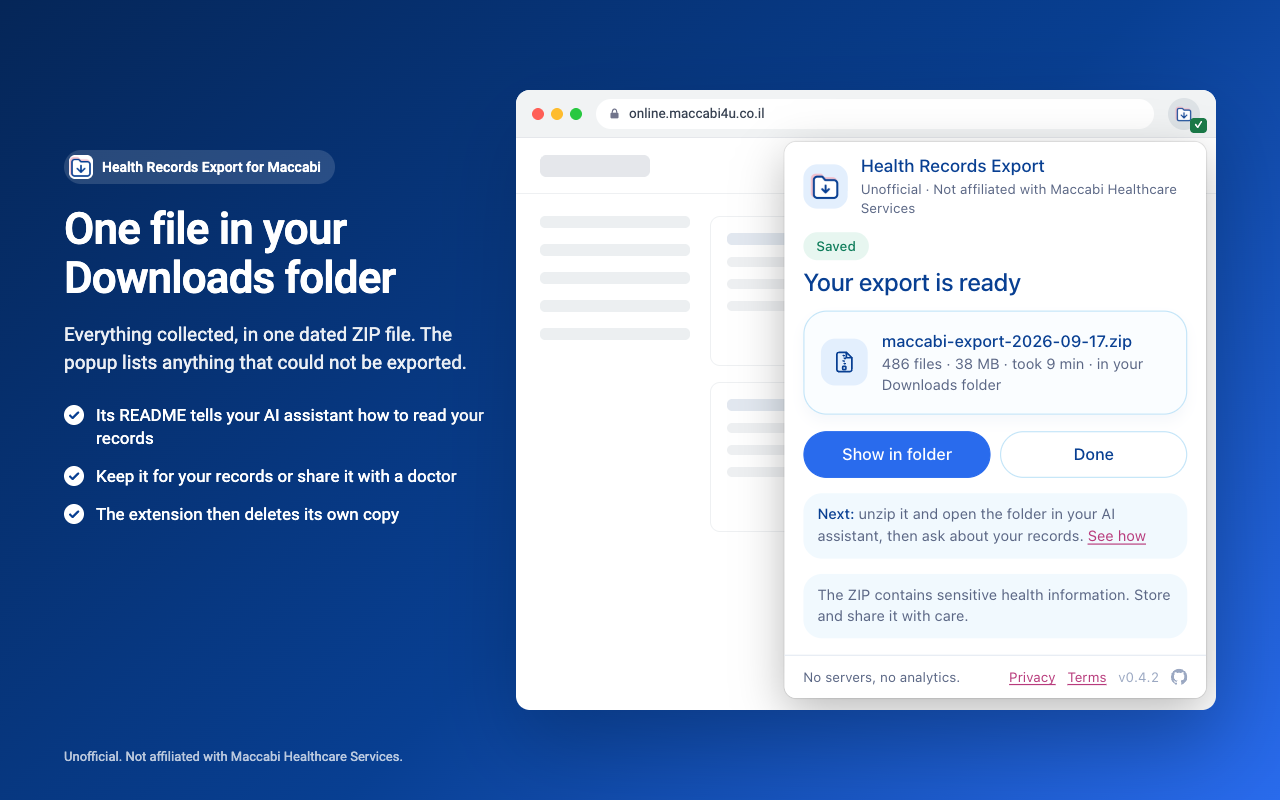
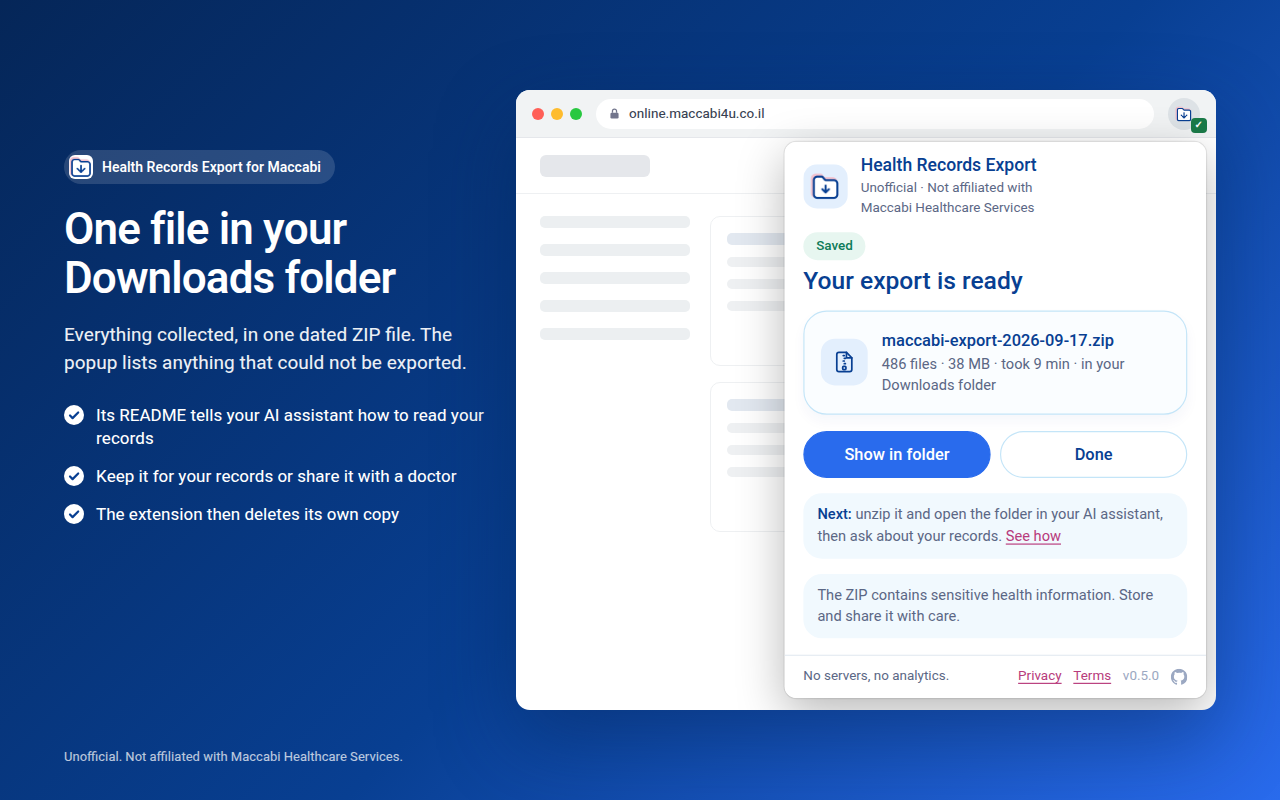
Call it the Maccabi Online tab, and balance the header's tagline
"The Maccabi Healthcare Services tab" is a website's tab, and at that length it
wrapped the paused heading to two lines and pushed Stop onto a row of its own.
The organisation keeps its full name wherever the organisation is meant. The
tagline under the header wraps in two even lines instead of leaving "Services"
alone on the second. Store images re-rendered.

Claude-Session: https://claude.ai/code/session_012ZpQEL8moHTYht3hhJxQhs

diff --git a/src/extension/popup/popup.ts b/src/extension/popup/popup.ts
@@ -152,7 +152,7 @@ function progressBar(percent: number, active: boolean): { bar: HTMLElement; fill
 function hintFor(run: RunState): string {
   if (run.status === 'saving') return 'Building the ZIP. It will be in your Downloads folder in a moment.';
   if (PLAN[run.next] === 'waitMedicalFile') return 'Maccabi Healthcare Services usually prepares the file within a few minutes (at most 15). You can close this popup.';
-  return 'Keep the Maccabi Healthcare Services tab open and in front until the ZIP is saved. You can close this popup.';
+  return 'Keep the Maccabi Online tab open and in front until the ZIP is saved. You can close this popup.';
 }
 
 // ---- views -------------------------------------------------------------
@@ -165,7 +165,7 @@ function noticeView(): Child[] {
     h('ul', { class: 'points' },
       h('li', {}, 'It reads your records from Maccabi Online while you are logged in, and saves them as one ZIP file on this computer. Nothing is sent anywhere else.'),
       h('li', {}, 'Use it only with your own account, or one whose records you are legally entitled to access.'),
-      h('li', {}, 'While it works, your Maccabi Healthcare Services tab moves to the medical-file page and back, and it keeps your session from timing out until the export finishes.'),
+      h('li', {}, 'While it works, your Maccabi Online tab moves to the medical-file page and back, and it keeps your session from timing out until the export finishes.'),
       h('li', {}, 'The ZIP contains sensitive health information. Store and share it with care.')),
     note('warn', h('strong', {}, 'Each export orders a fresh copy of your full medical file.'),
       ' It asks for your whole history, a wider range than the site’s own form offers. Maccabi Healthcare Services texts you about it, and the' +
@@ -202,7 +202,7 @@ function includedDetails(): HTMLElement {
         h('li', {}, 'Only the logged-in member’s records.'),
         h('li', {}, 'No imaging studies (DICOM).'),
         h('li', {}, 'Visits from the last 12 months, as on the site. The purchase report PDF covers 2 years; the purchase table, everything.'),
-        h('li', {}, 'While it works, your Maccabi Healthcare Services tab moves to the medical-file page and back.'))));
+        h('li', {}, 'While it works, your Maccabi Online tab moves to the medical-file page and back.'))));
 }
 
 function idleView(st: StateReply): Child[] {
@@ -259,13 +259,13 @@ function pausedView(run: RunState, st: StateReply): Child[] {
   const stage = STAGES[stageStates(run.next).indexOf('current')]?.label;
   let primary: HTMLElement;
   if (!hidden && st.tab.onMaccabi) primary = actionButton('Resume', { type: 'resume' }, 'primary', 'Reconnecting…');
-  else primary = actionButton('Go to the Maccabi Healthcare Services tab', { type: 'focusTab' }, 'primary');
+  else primary = actionButton('Go to the Maccabi Online tab', { type: 'focusTab' }, 'primary');
   return [
     status('Paused · ' + run.percent + '%', 'warn'),
-    h('h2', {}, hidden ? 'Waiting for the Maccabi Healthcare Services tab' : 'Export paused'),
+    h('h2', {}, hidden ? 'Waiting for the Maccabi Online tab' : 'Export paused'),
     stage && h('p', { class: 'detail' }, 'During ' + stage),
     progressBar(run.percent, false).bar,
-    note('warn', run.message || (hidden ? 'Bring the Maccabi Healthcare Services tab back to the front to continue.' : 'The export is paused.')),
+    note('warn', run.message || (hidden ? 'Bring the Maccabi Online tab back to the front to continue.' : 'The export is paused.')),
     ui.confirm === 'cancel' ? cancelConfirm() : actions(primary, cancelButton()),
   ];
 }
@@ -325,7 +325,7 @@ function errorView(run: RunState, st: StateReply): Child[] {
   let retry: HTMLElement;
   if (atSave) retry = actionButton('Save again', { type: 'retrySave' }, 'primary', 'Saving…');
   else if (st.tab.onMaccabi) retry = actionButton('Try again', { type: 'resume' }, 'primary', 'Reconnecting…');
-  else retry = actionButton('Go to the Maccabi Healthcare Services tab', { type: 'focusTab' }, 'primary');
+  else retry = actionButton('Go to the Maccabi Online tab', { type: 'focusTab' }, 'primary');
   return [
     status(atSave ? 'Not saved' : 'Stopped', 'err'),
     h('h2', {}, atSave ? 'The ZIP was not saved' : 'Export stopped'),
@@ -333,7 +333,7 @@ function errorView(run: RunState, st: StateReply): Child[] {
       h('div', {}, run.message || 'The export failed.'),
       !atSave && h('div', { class: 'small' }, st.tab.onMaccabi
         ? 'Files collected so far are kept. Try again continues from where it stopped.'
-        : 'Files collected so far are kept. To try again, open this popup on the logged-in Maccabi Healthcare Services tab.')),
+        : 'Files collected so far are kept. To try again, open this popup on the logged-in Maccabi Online tab.')),
     ui.confirm === 'discard'
       ? confirmPanel('Delete the files collected so far? You will need to start a new export.', 'Delete files', { type: 'dismiss' }, 'Deleting…', 'Keep them')
       : actions(retry, button('Discard collected files', () => askConfirm('discard'))),
@@ -386,7 +386,7 @@ const ANNOUNCEMENTS: Record<string, string> = {
   running: 'Export running',
   saving: 'Saving the ZIP',
   paused_session: 'Export paused',
-  paused_hidden: 'Export waiting for the Maccabi Healthcare Services tab',
+  paused_hidden: 'Export waiting for the Maccabi Online tab',
   done: 'Export saved',
   error: 'Export failed',
   stopping: 'Stopping the export',

diff --git a/src/extension/background/tab.ts b/src/extension/background/tab.ts
@@ -16,15 +16,15 @@ export interface PageSnapshot {
 async function inTab<A extends unknown[], R>(tabId: number, func: (...args: A) => R | Promise<R>, args: A, timeoutMs = SCRIPT_TIMEOUT_MS): Promise<R> {
   let timer: ReturnType<typeof setTimeout> | undefined;
   const timeout = new Promise<never>((_, reject) => {
-    timer = setTimeout(() => reject(new SessionEndedError('the Maccabi Healthcare Services tab did not respond for ' + timeoutMs / 1000 + ' s')), timeoutMs);
+    timer = setTimeout(() => reject(new SessionEndedError('the Maccabi Online tab did not respond for ' + timeoutMs / 1000 + ' s')), timeoutMs);
   });
   try {
     const run = chrome.scripting.executeScript({ target: { tabId }, world: 'MAIN', func, args }).then((res) => {
-      if (!res || !res.length) throw new SessionEndedError('could not run in the Maccabi Healthcare Services tab');
+      if (!res || !res.length) throw new SessionEndedError('could not run in the Maccabi Online tab');
       return res[0].result as R;
     }, (e: unknown) => {
       // No tab, a tab on another site, or an error page.
-      throw new SessionEndedError('the Maccabi Healthcare Services tab is not available (' + (e instanceof Error ? e.message : String(e)) + ')');
+      throw new SessionEndedError('the Maccabi Online tab is not available (' + (e instanceof Error ? e.message : String(e)) + ')');
     });
     return await Promise.race([run, timeout]);
   } finally {
@@ -205,7 +205,7 @@ export async function isVisible(tabId: number): Promise<boolean> {
   try {
     tab = await chrome.tabs.get(tabId);
   } catch {
-    throw new SessionEndedError('the Maccabi Healthcare Services tab was closed');
+    throw new SessionEndedError('the Maccabi Online tab was closed');
   }
   if (!tab.active) return false;
   const win = await chrome.windows.get(tab.windowId);
@@ -233,7 +233,7 @@ export async function navigate(tabId: number, url: string, expectPath: RegExp): 
     chrome.tabs.update(tabId, { url }).catch((e) => {
       clearTimeout(timer);
       chrome.tabs.onUpdated.removeListener(listener);
-      reject(new SessionEndedError('the Maccabi Healthcare Services tab was closed (' + e.message + ')'));
+      reject(new SessionEndedError('the Maccabi Online tab was closed (' + e.message + ')'));
     });
   });
   const s = await snapshot(tabId);

diff --git a/src/extension/background/runner.ts b/src/extension/background/runner.ts
@@ -288,7 +288,7 @@ async function reconnect(): Promise<boolean> {
 
 async function waitVisible(): Promise<void> {
   if (!state || (await isVisible(state.tabId))) return;
-  await pause('paused_hidden', 'Bring the Maccabi Healthcare Services tab back to the front to continue. Chrome pauses hidden tabs, which can end your session.');
+  await pause('paused_hidden', 'Bring the Maccabi Online tab back to the front to continue. Chrome pauses hidden tabs, which can end your session.');
   while (state && !(await isVisible(state.tabId))) {
     if (cancelRequested) throw new CancelledError();
     await new Promise((r) => setTimeout(r, 1000));

diff --git a/test/popup.test.ts b/test/popup.test.ts
@@ -118,7 +118,7 @@ describe('popup', () => {
   it('offers to switch tabs when a paused export is opened elsewhere', async () => {
     const paused = running({ status: 'paused_session', message: 'Your Maccabi Healthcare Services session ended.' });
     await openPopup({ run: paused, tab: { onMaccabi: false, loggedIn: false } });
-    buttonNamed('Go to the Maccabi Healthcare Services tab').click();
+    buttonNamed('Go to the Maccabi Online tab').click();
     await flush();
     expect(sent.map((m) => m.type)).toContain('focusTab');
   });

diff --git a/store/src/stage.ts b/store/src/stage.ts
@@ -38,7 +38,7 @@ const SHOTS: Record<string, Shot> = {
   },
   progress: {
     title: 'It works through your records on its own',
-    text: 'Progress shows on the toolbar icon. You can close the popup; keep the Maccabi Healthcare Services tab open and in front.',
+    text: 'Progress shows on the toolbar icon. You can close the popup; keep the Maccabi Online tab open and in front.',
     points: [
       'Usually done in 5 to 20 minutes',
       'Read-only, except for ordering your medical file',

diff --git a/src/extension/popup/popup.css b/src/extension/popup/popup.css
@@ -89,6 +89,8 @@ h1 {
   margin: 1px 0 0;
   color: var(--muted);
   font-size: 11.5px;
+  /* Two even lines rather than a lone "Services" on the second. */
+  text-wrap: balance;
 }
 main {
   padding: 3px 16px 14px;

diff --git a/README.md b/README.md
@@ -100,7 +100,7 @@ Then load the `dist/` folder the same way.
   for your whole history, which is wider than the range the site's form offers. Maccabi Healthcare Services sends an SMS, and the new file
   replaces the previous one on the site. A copy ordered earlier the same day over the same range is used as it is.
   This is the only change the extension makes to your account, and it happens even if the export later fails.
-- **Keep the Maccabi Healthcare Services tab in front.** Chrome pauses hidden tabs, which can end your session. If you switch away, the
+- **Keep the Maccabi Online tab in front.** Chrome pauses hidden tabs, which can end your session. If you switch away, the
   export waits until you come back.
 - **Your session is kept awake.** Maccabi Healthcare Services logs you out after six minutes without a click or a keypress on the page, and
   an export asks nothing of you for far longer than that, so while it runs the extension signals activity in that tab
@@ -111,8 +111,8 @@ Then load the `dist/` folder the same way.
 | The popup says | What to do |
 |---|---|
 | **Export paused** | Your session ended. Log in to Maccabi Online again, click the icon on that tab and press **Resume**. (The extension first tries to reconnect by itself.) Also shown after Chrome restarts mid-export. |
-| **Waiting for the Maccabi Healthcare Services tab** | Bring the tab back to the front. The export continues on its own. |
-| **Export stopped** | Press **Try again** on the Maccabi Healthcare Services tab. It continues from the step that failed. |
+| **Waiting for the Maccabi Online tab** | Bring the tab back to the front. The export continues on its own. |
+| **Export stopped** | Press **Try again** on the Maccabi Online tab. It continues from the step that failed. |
 | **The ZIP was not saved** | Press **Save again**. |
 
 Resume refuses to continue if a different member is logged in. **Stop** ends the export and deletes the files collected
@@ -272,7 +272,7 @@ Read the full [Privacy Policy](docs/privacy.md) and [Terms of Use](docs/terms.md
 | Permission | Used to |
 |---|---|
 | `online.maccabi4u.co.il` | Read your records from the site you're logged in to. No other sites. |
-| `scripting` | Read the login session from the Maccabi Healthcare Services tab, and send the requests the site accepts only from its own pages |
+| `scripting` | Read the login session from the Maccabi Online tab, and send the requests the site accepts only from its own pages |
 | `downloads` | Save the ZIP |
 | `storage`, `unlimitedStorage` | Keep export progress, and collected files until the ZIP is saved (PDFs can be large) |
 | `offscreen` | Build the ZIP, and parse two HTML tables the site returns |
@@ -302,7 +302,7 @@ Load `dist-dev/` at `chrome://extensions` the same way as `dist/`. It shows up a
 flowchart LR
   popup[Popup] -- messages --> sw[Service worker]
   sw -- "/sonline/ REST API and PDFs" --> site[(Maccabi Online)]
-  sw -- chrome.scripting --> tab[Maccabi Healthcare Services tab]
+  sw -- chrome.scripting --> tab[Maccabi Online tab]
   tab -- "/online/ legacy pages, medical file order" --> site
   sw -- staged files --> idb[(IndexedDB)]
   sw -- "parse HTML, build ZIP" --> off[Offscreen document]
@@ -321,12 +321,12 @@ steps that need the old site share it. The run returns to `/sonline/` before wai
 renews the session token only there, and the wait is the longest part of the run.
 
 REST API requests (`/sonline/`) go from the service worker, with the session token read from the tab. Legacy requests
-(`/online/`) and the medical file order go from inside the Maccabi Healthcare Services tab, where the site requires them to originate.
+(`/online/`) and the medical file order go from inside the Maccabi Online tab, where the site requires them to originate.
 
 | Path | Contents |
 |---|---|
 | `src/core/` | The collection logic, one file per part of the site in `sections/`. Uses no extension APIs: it reaches the site through a `Transport`, writes through a `Sink` and parses HTML through an `HtmlParser` (see `types.ts`). |
-| `src/extension/background/` | The service worker: the run loop with pause and resume (`runner.ts`), the Maccabi Healthcare Services tab (`tab.ts`), badge and notifications (`ui.ts`) |
+| `src/extension/background/` | The service worker: the run loop with pause and resume (`runner.ts`), the Maccabi Online tab (`tab.ts`), badge and notifications (`ui.ts`) |
 | `src/extension/offscreen/` | HTML parsing and ZIP building, which the service worker can't do |
 | `src/extension/shared/` | Run state and plan, IndexedDB staging |
 | `src/extension/popup/` | The popup |

diff --git a/docs/store-listing.md b/docs/store-listing.md
@@ -268,7 +268,7 @@ Reads the signed-in member's records and their PDFs from Maccabi Online, using t
 **scripting:**
 
 ```
-Runs short functions in the Maccabi Healthcare Services tab the member is logged in on, and only there. The functions do three things:
+Runs short functions in the Maccabi Online tab the member is logged in on, and only there. The functions do three things:
 1. Read the site's session token so the extension can make requests as the logged-in member. When the token is stale, they clear it so that the site issues a new one.
 2. Send the few requests that the site accepts only from its own pages: the legacy medical-file services and the medical file order.
 3. While an export runs, dispatch a mousedown event on the page every 4 minutes. Maccabi Healthcare Services logs members out after 6 minutes without a click or keypress, and an export runs for 5 to 20 minutes without user input. The member is told about this before the first export, and it stops as soon as the export ends.
@@ -307,7 +307,7 @@ Sets a 30-second heartbeat while an export runs, so that the export continues if
 **notifications:**
 
 ```
-Tells the member when the export is ready, or when it needs them to log in again, bring the Maccabi Healthcare Services tab back to the front or try again.
+Tells the member when the export is ready, or when it needs them to log in again, bring the Maccabi Online tab back to the front or try again.
 ```
 
 ### Remote code
@@ -324,7 +324,7 @@ device. Check these five:
 |---|---|
 | Personally identifiable information | Name, ID number, birth date and the other member details in the profile, which the export saves. The popup also shows the member's first name. |
 | Health information | The medical records themselves |
-| Authentication information | The site's session token and the member ID. The popup reads them from the Maccabi Healthcare Services tab when it opens, and they're kept in `chrome.storage.session` while an export runs. |
+| Authentication information | The site's session token and the member ID. The popup reads them from the Maccabi Online tab when it opens, and they're kept in `chrome.storage.session` while an export runs. |
 | Personal communications | The member's inquiries to doctors, from the Communication with doctor section |
 | Website content | The pages and files the extension reads from Maccabi Online |
 
